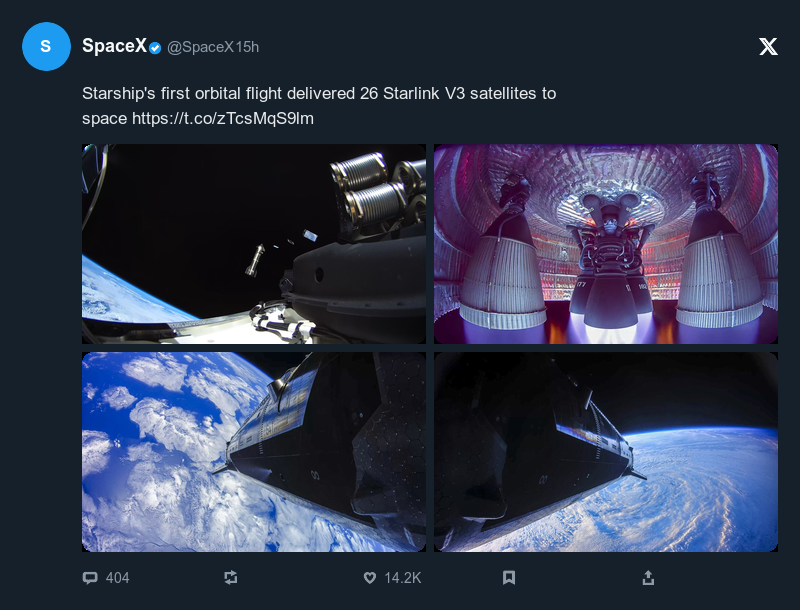
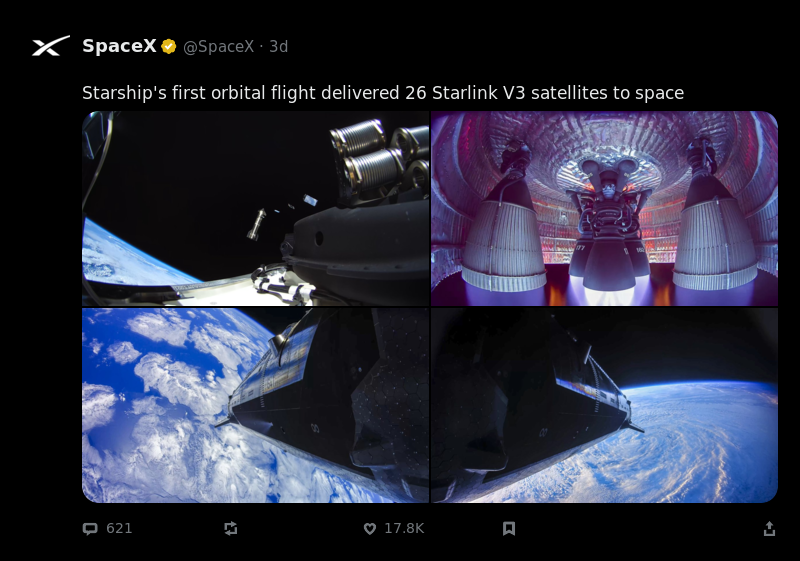
docs: restore tight homepage hero; drop install line and default blurb; refresh hero shot for 0.9.25

diff --git a/docs/index.html b/docs/index.html
@@ -120,19 +120,6 @@
     }
     .cmd .nw { white-space: nowrap; }
     .cmd + .cmd { margin-top: 8px; }
-    .plate-blurb a { color: var(--muted); }
-    .plate-blurb a:hover, .plate-blurb a:focus-visible { color: var(--text); }
-    .plate-blurb code {
-      font-family: ui-monospace, "SF Mono", Menlo, Consolas, monospace;
-      font-size: 12px;
-    }
-    .plate-blurb {
-      margin: 8px 0 0;
-      color: var(--muted);
-      font-size: 14px;
-      line-height: 1.4;
-      max-width: 40em;
-    }
     .shot {
       position: relative;
       margin: 0 auto;
@@ -297,9 +284,7 @@
       <div class="pitch">
         <h1>Turn an <svg class="xmark" viewBox="0 0 24 24" aria-label="X" role="img"><path fill="currentColor" d="M18.244 2.25h3.308l-7.227 8.26 8.502 11.24H16.17l-5.214-6.817L4.99 21.75H1.68l7.73-8.835L1.254 2.25H8.08l4.713 6.231zm-1.161 17.52h1.833L7.084 4.126H5.117z"/></svg> post into a PNG.</h1>
         <p class="why">A CLI tool for turning an X post into a PNG.</p>
-        <code class="cmd"><span class="nw">npm i -g xpostplate</span></code>
         <code class="cmd"><span class="nw">xpostplate https://x.com/SpaceX/status/[slug]</span> <span class="nw">&gt; post.png</span></code>
-        <p class="plate-blurb">No flags: the opened post as x.com shows it, photos included. <code>--view plate --no-media</code> is the bordered broadcast card. <a href="docs.html">Install docs</a> · Homebrew HEAD: <code>brew tap jspeaks/xpostplate &amp;&amp; brew install --HEAD xpostplate</code></p>
       </div>
       <figure class="shot">
         <svg class="corners" viewBox="0 0 100 100" preserveAspectRatio="none" aria-hidden="true">
@@ -308,14 +293,14 @@
           <path d="M1 86 V99 H14" fill="none" stroke="#1D9BF0" stroke-width="1.5" vector-effect="non-scaling-stroke"/>
           <path d="M86 99 H99 V86" fill="none" stroke="#1D9BF0" stroke-width="1.5" vector-effect="non-scaling-stroke"/>
         </svg>
-        <img src="media/timeline.png" width="800" height="610" alt="Dark timeline plate of a SpaceX Starship post, four photos">
+        <img src="media/timeline.png" width="800" height="561" alt="Dark timeline row of a SpaceX Starship post, four photos">
       </figure>
       <section class="feats" aria-label="Views and flags">
       <ul class="named">
+        <li><code>--view plate</code><span class="desc">broadcast card</span></li>
         <li><code>--view timeline</code><span class="desc"><svg class="xmark" viewBox="0 0 24 24" aria-hidden="true"><path fill="currentColor" d="M18.244 2.25h3.308l-7.227 8.26 8.502 11.24H16.17l-5.214-6.817L4.99 21.75H1.68l7.73-8.835L1.254 2.25H8.08l4.713 6.231zm-1.161 17.52h1.833L7.084 4.126H5.117z"/></svg> timeline row format</span></li>
         <li><code>--view detail</code><span class="desc"><svg class="xmark" viewBox="0 0 24 24" aria-hidden="true"><path fill="currentColor" d="M18.244 2.25h3.308l-7.227 8.26 8.502 11.24H16.17l-5.214-6.817L4.99 21.75H1.68l7.73-8.835L1.254 2.25H8.08l4.713 6.231zm-1.161 17.52h1.833L7.084 4.126H5.117z"/></svg> detail post format (default)</span></li>
         <li><code>--view quote</code><span class="desc"><svg class="xmark" viewBox="0 0 24 24" aria-hidden="true"><path fill="currentColor" d="M18.244 2.25h3.308l-7.227 8.26 8.502 11.24H16.17l-5.214-6.817L4.99 21.75H1.68l7.73-8.835L1.254 2.25H8.08l4.713 6.231zm-1.161 17.52h1.833L7.084 4.126H5.117z"/></svg> quote only format</span></li>
-        <li><code>--view plate</code><span class="desc">broadcast card</span></li>
         <li><code>--fabricate</code><span class="desc">invents a post</span></li>
         <li><code>--no-media</code><span class="desc">text only</span></li>
       </ul>
